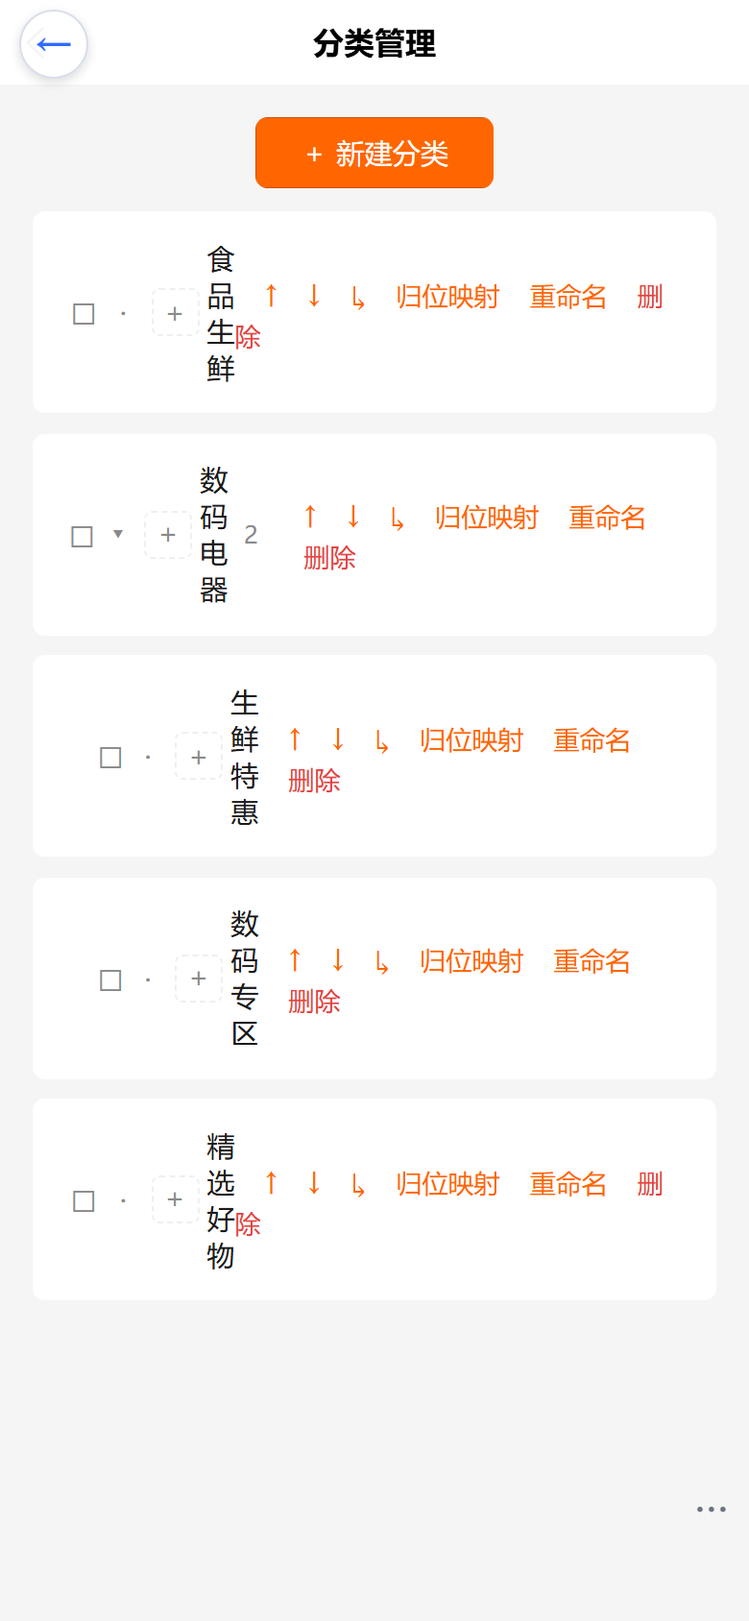
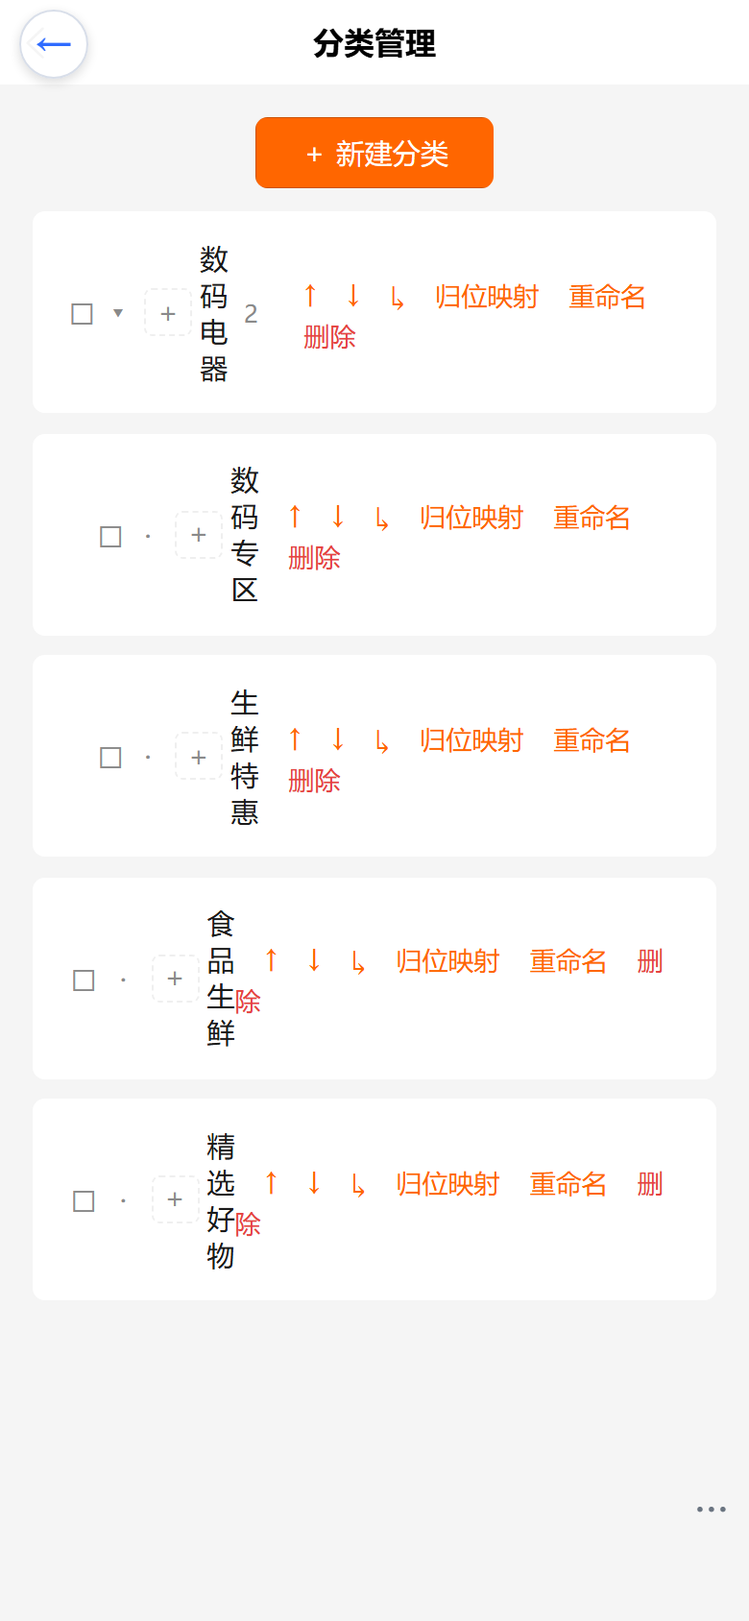
test(docs): 根级分类换序验收证据（修复后）
修复 1b74c5d 后 swapSibling 从扁平列表按 parentId 取兄弟，根级分类 ↑↓ 不再静默无效。脚本 B6 改为主验根级换序（B6a，主图 categories-reorder.png 重新取证：换序前 [食品生鲜,数码电器,...] → 点↓后 [数码电器,...,食品生鲜,...]，刷新回读一致，点↑复原），子级换序复核另存 categories-reorder-child.png（B6b）。全量 PASS（失败 0 / SKIP 0），本地数据已还原原序；修复手册第 17 章同步更新图注/步骤（共 10 张），verify:manual PASS。

未改任何业务代码。

diff --git a/web-admin/docs/webadmin-bugfix-manual/webadmin-bugfix-manual.html b/web-admin/docs/webadmin-bugfix-manual/webadmin-bugfix-manual.html
@@ -1532,12 +1532,12 @@ flowchart TD
 
   <section id="gap4-batch1">
     <h2>17 售后处理筛选分页 + 分类管理树形 / 排序 / 图标 / 批量（gap4 批 1 · 2026-09-25）</h2>
-    <p>本章为 <strong>gap4「管理后台体验补齐」批 1</strong> 的验收章节，覆盖 <strong>① 售后处理列表的类型筛选与上滑分页</strong>、<strong>② 商品分类管理的树形缩进 / 折叠 / 换序 / 行内图标 / 批量操作（含批量删除限制）</strong>。验收口径沿用硬规范「功能交付 = 实现 + API/e2e 回归 + 手机视口截图 + 操作手册」。本轮 <mark class="key">9 张截图全部为手机视口 390×844（dpr=2 → 780×1688）、本地 dev server、每个页面 0 pageerror / 0 console.error</mark>。</p>
+    <p>本章为 <strong>gap4「管理后台体验补齐」批 1</strong> 的验收章节，覆盖 <strong>① 售后处理列表的类型筛选与上滑分页</strong>、<strong>② 商品分类管理的树形缩进 / 折叠 / 换序 / 行内图标 / 批量操作（含批量删除限制）</strong>。验收口径沿用硬规范「功能交付 = 实现 + API/e2e 回归 + 手机视口截图 + 操作手册」。本轮 <mark class="key">10 张截图全部为手机视口 390×844（dpr=2 → 780×1688）、本地 dev server、每个页面 0 pageerror / 0 console.error</mark>。其中「根级分类换序」一图于 <code class="mono">e2c1b9f</code> 修复后<strong>重新取证</strong>。</p>
     <div class="table-wrap">
     <table>
       <tr><th>项</th><th>内容</th></tr>
       <tr><td>验证脚本</td><td><code class="mono">python _e2e/_verify_gap4_batch1.py</code>（Playwright Python sync，视口 390×844 / dpr=2 / is_mobile / has_touch；退出码 <mark class="key">0 = 通过</mark>）</td></tr>
-      <tr><td>本轮结果</td><td><mark class="key">PASS（失败 0 / SKIP 0）</mark>，退出码 0；落图 9 张到 <code class="mono">docs/verify/gap4-batch1-*.png</code></td></tr>
+      <tr><td>本轮结果</td><td><mark class="key">PASS（失败 0 / SKIP 0）</mark>，退出码 0；落图 10 张到 <code class="mono">docs/verify/gap4-batch1-*.png</code>（含 <code class="mono">e2c1b9f</code> 修复后的根级换序新增图 <code class="mono">categories-reorder.png</code> / <code class="mono">categories-reorder-child.png</code>）</td></tr>
       <tr><td>覆盖页面</td><td><code class="mono">pages/after-sale/list/index</code>（售后处理）· <code class="mono">pages/product/categories/index</code>（分类管理）</td></tr>
       <tr><td>文档门禁</td><td><code class="mono">npm run verify:manual</code>（cwd <code class="mono">web-admin</code>）→ <mark class="key">PASS（失败 0）</mark></td></tr>
     </table>
@@ -1577,10 +1577,10 @@ flowchart TD
       <p class="muted" style="font-size:13px;margin-bottom:0;">判定依据：子分类来自已加载的分类表（可靠）；商品数来自 <code class="mono">collections.items.productVariantCount</code>（admin-api 实测可用）。批量删除结束后勾选态自动清空。</p>
     </div>
     <div class="callout warn">
-      <p><strong>已知边界（不阻塞，如实登记）</strong>：<code class="mono">↑</code>/<code class="mono">↓</code> 换序发生在<strong>同一父级内</strong>，需要该父级分类本身在当前列表里。若某分类的 <code class="mono">parentId</code> 指向<strong>未被 <code class="mono">collections</code> 查询返回的根集合</strong>（本地默认渠道数据的 <code class="mono">parentId = "1"</code> 即属此类），则同级兄弟数组取不到、点 <code class="mono">↑</code>/<code class="mono">↓</code> 会静默无操作。因此本轮<strong>换序验收以「父分类已在列表内」的子分类为对象</strong>（点 <code class="mono">↓</code> 后与相邻子分类交换并刷新回读一致）。</p>
+      <p><strong>根级换序缺陷已修复并回归（<code class="mono">e2c1b9f</code>）</strong>：初版 <code class="mono">swapSibling()</code> 用 <code class="mono">nodeIndex.get(parentId).children</code> 取兄弟，而根分类的 <code class="mono">parentId</code> 指向<strong>未被 <code class="mono">collections</code> 查询返回的根集合</strong>（本地默认渠道数据为 <code class="mono">parentId = "1"</code>），取不到兄弟数组，导致<strong>根级 <code class="mono">↑</code>/<code class="mono">↓</code> 静默无操作</strong>。现已改为<strong>从扁平列表 <code class="mono">cats.value</code> 按 <code class="mono">parentId</code> 过滤 + 按 <code class="mono">position/name</code> 排序</strong>取兄弟，并把节点真实 <code class="mono">parentId</code> 传给 <code class="mono">moveCollection</code>。<mark class="key">根级与子级换序均验收通过</mark>（见 17.3 B6a / B6b 的原始顺序值）。</p>
     </div>
 
-    <h3>17.3 验收结论与截图证据（手机 390×844 dpr=2 → 780×1688，共 9 张）</h3>
+    <h3>17.3 验收结论与截图证据（手机 390×844 dpr=2 → 780×1688，共 10 张）</h3>
     <div class="table-wrap">
     <table>
       <tr><th>#</th><th>验收点</th><th>结论</th><th>证据（脚本断言 / 截图）</th></tr>
@@ -1592,15 +1592,17 @@ flowchart TD
       <tr><td>B3</td><td>勾选 2 项后底部批量条出现（数量 2 + 批量改图标 / 批量移动 / 批量删除）</td><td><mark class="key">通过</mark></td><td><code class="mono">bulk='2 批量改图标 批量移动 批量删除'</code> → <code class="mono">gap4-batch1-categories-picked-bulk.png</code></td></tr>
       <tr><td>B4</td><td>批删限制①：含子分类被拦截且未真删</td><td><mark class="key">通过</mark></td><td>toast「「数码电器」含子分类，不能删除」、<code class="mono">rows=5</code> 不变 → <code class="mono">gap4-batch1-categories-bulkdelete-blocked-children.png</code></td></tr>
       <tr><td>B5</td><td>批删限制②：含商品被拦截且未真删</td><td><mark class="key">通过</mark></td><td>toast「「精选好物」含商品，不能删除」、<code class="mono">rows=5</code> 不变（<code class="mono">productVariantCount=5</code>）→ <code class="mono">gap4-batch1-categories-bulkdelete-blocked-products.png</code></td></tr>
-      <tr><td>B6</td><td>换序后<strong>回读一致</strong>：点 <code class="mono">↓</code> 交换子分类 → 刷新后顺序 == 换序后顺序；再点 <code class="mono">↑</code> 复原</td><td><mark class="key">通过</mark></td><td><code class="mono">after-click == after-reload == ['食品生鲜','数码电器','生鲜特惠','数码专区','精选好物']</code>，↑ 复原回原顺序 → <code class="mono">gap4-batch1-categories-reorder.png</code></td></tr>
+      <tr><td>B6a</td><td><strong>根级</strong>换序<strong>回读一致</strong>（修复 <code class="mono">e2c1b9f</code> 的回归验证）：点根分类 <code class="mono">↓</code> 与相邻根兄弟交换 → 刷新后顺序 == 换序后顺序；再点 <code class="mono">↑</code> 复原</td><td><mark class="key">通过</mark></td><td>根级行（<code class="mono">padding=0</code>）<code class="mono">['食品生鲜','数码电器','精选好物']</code>；<br>换序前 <code class="mono">['食品生鲜','数码电器','数码专区','生鲜特惠','精选好物']</code> → 点「食品生鲜」<code class="mono">↓</code> 后 <code class="mono">['数码电器','数码专区','生鲜特惠','食品生鲜','精选好物']</code> → 刷新回读<strong>完全一致</strong>；<br>点「食品生鲜」<code class="mono">↑</code> 复原 <code class="mono">['食品生鲜','数码电器','数码专区','生鲜特惠','精选好物']</code>（== 原序）→ <code class="mono">gap4-batch1-categories-reorder.png</code></td></tr>
+      <tr><td>B6b</td><td><strong>子级</strong>换序回读一致（父分类已在列表内，复核修复无回归）</td><td><mark class="key">通过</mark></td><td><code class="mono">['食品生鲜','数码电器','数码专区','生鲜特惠','精选好物']</code> → 点「数码专区」<code class="mono">↓</code> 后 <code class="mono">['食品生鲜','数码电器','生鲜特惠','数码专区','精选好物']</code> → 刷新回读一致，<code class="mono">↑</code> 复原 → <code class="mono">gap4-batch1-categories-reorder-child.png</code></td></tr>
       <tr><td>—</td><td>全程无 JS 异常（pageerror / console.error）</td><td><mark class="key">通过</mark></td><td>两页断言均为 <code class="mono">[]</code>（0 条）</td></tr>
     </table>
     </div>
     <p><strong>A. 售后处理列表（3 张）</strong></p>
     <figure style="margin:0 0 10px;"><img src="../verify/gap4-batch1-aftersale-default.png" style="width:31%;border:1px solid var(--rule);border-radius:10px;" /><img src="../verify/gap4-batch1-aftersale-type-filter.png" style="width:31%;border:1px solid var(--rule);border-radius:10px;margin-left:8px;" /><img src="../verify/gap4-batch1-aftersale-loadmore.png" style="width:31%;border:1px solid var(--rule);border-radius:10px;margin-left:8px;" /><figcaption style="font-size:12px;color:var(--muted);margin-top:6px;">左：<b>默认态</b>——4 个状态页签 + 关键词 / 类型胶囊 / 申请时间 / 退款区间 / 排序共 5 组筛选控件，列表按最新在前；中：<b>类型筛选生效</b>——「售后类型：仅退款」胶囊高亮为主题色，列表行全部为仅退款；右：<b>上滑加载累计</b>——滚到底部可见「没有更多了」与页脚「已显示 25 / 25」</figcaption></figure>
-    <p><strong>B. 分类管理（6 张）</strong></p>
+    <p><strong>B. 分类管理（7 张）</strong></p>
     <figure style="margin:0 0 10px;"><img src="../verify/gap4-batch1-categories-tree.png" style="width:31%;border:1px solid var(--rule);border-radius:10px;" /><img src="../verify/gap4-batch1-categories-collapsed.png" style="width:31%;border:1px solid var(--rule);border-radius:10px;margin-left:8px;" /><img src="../verify/gap4-batch1-categories-picked-bulk.png" style="width:31%;border:1px solid var(--rule);border-radius:10px;margin-left:8px;" /><figcaption style="font-size:12px;color:var(--muted);margin-top:6px;">左：<b>分类树</b>——父分类「数码电器」带 <b>▾</b> 折叠箭头与子分类数「2」，其下「数码专区 / 生鲜特惠」两行<b>左缩进</b>；每行可见行内图标区（虚线框 ＋）与 ↑↓↳ 操作区；中：<b>折叠生效</b>——点 ▾ 后子行收起、箭头变 <b>▸</b>，仅剩 3 行；右：<b>勾选后的底部批量条</b>——已选 2 项 + 批量改图标 / 批量移动 / 批量删除</figcaption></figure>
-    <figure style="margin:0 0 10px;"><img src="../verify/gap4-batch1-categories-bulkdelete-blocked-children.png" style="width:31%;border:1px solid var(--rule);border-radius:10px;" /><img src="../verify/gap4-batch1-categories-bulkdelete-blocked-products.png" style="width:31%;border:1px solid var(--rule);border-radius:10px;margin-left:8px;" /><img src="../verify/gap4-batch1-categories-reorder.png" style="width:31%;border:1px solid var(--rule);border-radius:10px;margin-left:8px;" /><figcaption style="font-size:12px;color:var(--muted);margin-top:6px;">左：<b>批删限制①</b>——勾选有子分类的「数码电器」后提示「含子分类，不能删除」，5 行仍在；中：<b>批删限制②</b>——勾选有商品的「精选好物」后提示「含商品，不能删除」；右：<b>换序回读一致</b>——点 ↓ 后「生鲜特惠」排到「数码专区」之前，刷新页面顺序保持</figcaption></figure>
+    <figure style="margin:0 0 10px;"><img src="../verify/gap4-batch1-categories-bulkdelete-blocked-children.png" style="width:46%;border:1px solid var(--rule);border-radius:10px;" /><img src="../verify/gap4-batch1-categories-bulkdelete-blocked-products.png" style="width:46%;border:1px solid var(--rule);border-radius:10px;margin-left:8px;" /><figcaption style="font-size:12px;color:var(--muted);margin-top:6px;">左：<b>批删限制①</b>——勾选有子分类的「数码电器」后提示「含子分类，不能删除」，5 行仍在；右：<b>批删限制②</b>——勾选有商品的「精选好物」后提示「含商品，不能删除」</figcaption></figure>
+    <figure style="margin:0 0 10px;"><img src="../verify/gap4-batch1-categories-reorder.png" style="width:46%;border:1px solid var(--rule);border-radius:10px;" /><img src="../verify/gap4-batch1-categories-reorder-child.png" style="width:46%;border:1px solid var(--rule);border-radius:10px;margin-left:8px;" /><figcaption style="font-size:12px;color:var(--muted);margin-top:6px;">左：<b>根级换序（修复后的主证据）</b>——点根分类「食品生鲜」的 ↓ 后，根级顺序由 <code class="mono">[食品生鲜, 数码电器, 精选好物]</code> 变为 <code class="mono">[数码电器, 食品生鲜, 精选好物]</code>（图中「数码电器」已排到「食品生鲜」之前，其子分类随之缩进在其下），刷新页面顺序保持；右：<b>子级换序</b>——点「数码专区」↓ 后「生鲜特惠」排到其前，复核修复未回归</figcaption></figure>
 
     <h3>17.4 验收口径与残留说明</h3>
     <div class="callout warn">
@@ -1609,11 +1611,12 @@ flowchart TD
       <p>③ <strong>本地 dev 数据不足以直接验收，本轮使用了 API fixture</strong>：本地库售后单原为 0 条、分类全部挂在未返回的根集合下（树是平的），无法支撑「类型筛选 / 上滑分页 / 树形缩进 / 折叠 / 换序」五组断言。脚本在显式开关 <code class="mono">WA_SHOT_ALLOW_WRITE=1</code> 下通过<strong>公开 GraphQL API</strong>造样本：<code class="mono">setOrderCustomFields</code> 刷新订单售后时效窗口 → shop-api <code class="mono">createAfterSalesRequest</code> ×23（不带 <code class="mono">orderLineId</code>，故不触发「同一订单行重复售后」校验）→ <code class="mono">moveCollection</code> 把两分类挂到同一父分类下。目标域名含 <code class="mono">e.joho.cn</code>（生产）时<strong>硬拦</strong>，全程零文件改动、未触碰 <code class="mono">d:\zhao\vendure</code> 任何文件。</p>
       <p>④ <strong>残留（如实登记）</strong>：分类层级与「数码专区 / 生鲜特惠」的位置已在脚本收尾时还原到 <code class="mono">parentId '1'</code>；但售后单<strong>服务端无删除 mutation</strong>，23 条样本只能 <code class="mono">cancelAfterSalesRequest</code> 置为 <strong>Closed</strong>（行仍在本地 dev 库，脚本二次运行会因 <code class="mono">totalItems ≥ 25</code> 直接复用、不再新增）。生产库未做任何写入。</p>
       <p>⑤ <strong>使用手册（<code class="mono">src/static/manual/index.html</code>）本轮未同步</strong>：该文件是<strong>数据驱动单文件</strong>（<code class="mono">var CHAPTERS = [...]</code>、章节编号由 JS 自动生成、图片目录为 <code class="mono">shots/</code>），与修复手册的「静态 section + 手写编号 + <code class="mono">assets/</code>」体系<strong>不一致</strong>；且它面向 C 端用户、本轮两个页面均为管理后台功能，故按约定<strong>只改修复手册</strong>。</p>
-      <p style="margin-bottom:0;">⑥ <strong>行内图标区未写真实缩略图</strong>：本地 dev server 返回的 asset preview URL 使用 Windows 反斜杠路径（<code class="mono">/assets/preview\…</code>），写入图标会让浏览器 404、破坏「0 console.error」口径；本轮因此只验「图标区每行可见（<code class="mono">.ico</code> 容器 + <code class="mono">＋</code> 占位）」，<strong>不写图标</strong>，以保证 9 张取证图全部零异常。</p>
+      <p style="margin-bottom:0;">⑥ <strong>行内图标区未写真实缩略图</strong>：本地 dev server 返回的 asset preview URL 使用 Windows 反斜杠路径（<code class="mono">/assets/preview\…</code>），写入图标会让浏览器 404、破坏「0 console.error」口径；本轮因此只验「图标区每行可见（<code class="mono">.ico</code> 容器 + <code class="mono">＋</code> 占位）」，<strong>不写图标</strong>，以保证 10 张取证图全部零异常。</p>
+      <p>⑦ <strong>相对上一次验收的唯一变更（缺陷修复回归）</strong>：上一次汇报登记的「根分类 <code class="mono">↑</code>/<code class="mono">↓</code> 静默无效」已在 <code class="mono">e2c1b9f</code> 修复（<code class="mono">swapSibling()</code> 改从扁平列表取兄弟）。本轮<strong>只做验证与证据更新、未改任何业务代码</strong>：脚本把换序验收从「子分类」改为主验<strong>根级</strong>（B6a，主图 <code class="mono">categories-reorder.png</code>），并把子级复核另存 <code class="mono">categories-reorder-child.png</code>（B6b）。两次运行均 <mark class="key">PASS（失败 0 / SKIP 0）</mark>，本地数据在收尾时已还原为原顺序。</p>
     </div>
   </section>
 
-  <footer>vShop · web-admin 后台修复操作手册 · 生成于 2026-09-04（2026-09-13 追加第 12 章，2026-09-21 追加第 13 章，2026-09-22 追加第 14 章，2026-09-23 追加第 15 章，2026-09-23 追加第 16 章，2026-09-25 追加 16.8 交付总结报告，2026-09-25 追加 16.9 追补（偏差 #40 / #45），2026-09-25 追加 16.9.6 OFF 档端到端回归，2026-09-25 追加 16.9.7 线上使用手册 op-38 同步，2026-09-25 追加 16.9.8 盘库运营增强（分页 / 草稿 / 统计 / 导出 / 打印）与线上手册 op-39，2026-09-25 追加 16.9.8 渲染级截图验证门禁，2026-09-25 追加 16.9.8 打印版式像素级一致性要求（基线录制 + fixture 契约 + 负向验证），2026-09-25 追加 16.9.7 O 小节 op-38 渲染门禁并入统一脚本（精确图数 / 结构计数 / 响应码 / 字节一致），2026-09-25 追加 16.9.8 第 11 小节 配货台四类单据（拣货单 / 发货单 / 包裹标签 / 批次总览）打印版式像素级一致性门禁（并入 verify:print / 四 case 基线 / 负向验证），2026-09-25 追加 16.9.9 门禁改造验收总结报告（任务 B 渲染门禁 + 任务 C 打印像素门禁），2026-09-25 追加第 17 章 gap4 批 1 验收（售后处理类型筛选 / 上滑分页 + 分类树 / 折叠 / 换序 / 行内图标 / 批量操作与批删限制，9 张手机视口取证图）） · 适用于 Nuxt/Vue3 uni-app H5 前端</footer>
+  <footer>vShop · web-admin 后台修复操作手册 · 生成于 2026-09-04（2026-09-13 追加第 12 章，2026-09-21 追加第 13 章，2026-09-22 追加第 14 章，2026-09-23 追加第 15 章，2026-09-23 追加第 16 章，2026-09-25 追加 16.8 交付总结报告，2026-09-25 追加 16.9 追补（偏差 #40 / #45），2026-09-25 追加 16.9.6 OFF 档端到端回归，2026-09-25 追加 16.9.7 线上使用手册 op-38 同步，2026-09-25 追加 16.9.8 盘库运营增强（分页 / 草稿 / 统计 / 导出 / 打印）与线上手册 op-39，2026-09-25 追加 16.9.8 渲染级截图验证门禁，2026-09-25 追加 16.9.8 打印版式像素级一致性要求（基线录制 + fixture 契约 + 负向验证），2026-09-25 追加 16.9.7 O 小节 op-38 渲染门禁并入统一脚本（精确图数 / 结构计数 / 响应码 / 字节一致），2026-09-25 追加 16.9.8 第 11 小节 配货台四类单据（拣货单 / 发货单 / 包裹标签 / 批次总览）打印版式像素级一致性门禁（并入 verify:print / 四 case 基线 / 负向验证），2026-09-25 追加 16.9.9 门禁改造验收总结报告（任务 B 渲染门禁 + 任务 C 打印像素门禁），2026-09-25 追加第 17 章 gap4 批 1 验收（售后处理类型筛选 / 上滑分页 + 分类树 / 折叠 / 换序 / 行内图标 / 批量操作与批删限制，9 张手机视口取证图），2026-09-25 追加第 17 章根级分类换序修复（e2c1b9f）后的重新取证与回归（换序验收改为主验根级，新增 categories-reorder-child 图，共 10 张，verify:manual PASS）） · 适用于 Nuxt/Vue3 uni-app H5 前端</footer>
 </div>
 
 <script src="./_shared/js/mermaid.min.js"></script>

diff --git a/web-admin/_e2e/_verify_gap4_batch1.py b/web-admin/_e2e/_verify_gap4_batch1.py
@@ -443,32 +443,54 @@ def main():
               'toast=%r rows=%d（「精选好物」productVariantCount=5）' % (blocked2, pg.locator('.card').count()))
         shot(pg, 'categories-bulkdelete-blocked-products', '批删限制 ②：有商品的分类被拦截（toast 提示，未删除）')
 
-        # --- 换序 + 回读一致 ---
-        # 只对**子分类**换序：根分类的 parentId 指向未被 collections 查询返回的根集合（本地数据 parentId='1'），
-        # swapSibling 找不到兄弟数组会直接 return（应用现有局限，非本次断言目标）。
-        pg.reload(wait_until='networkidle', timeout=60000)
-        time.sleep(5)
-        order0 = row_names(pg)
-        if has_parent and '数码专区' in order0:
-            i_a = order0.index('数码专区')
-            pg.locator('.card').nth(i_a).locator('.ops uni-text', has_text='↓').first.click()
+        # --- 换序 + 回读一致（B6a 根级为主图；B6b 子级为辅） ---
+        # 修复 e2c1b9f 后 swapSibling 改为「从扁平列表按 parentId 过滤 + position/name 排序」取兄弟，
+        # 因此根分类（parentId 指向未被 collections 返回的根集合 '1'）也能换序——B6a 即该缺陷的回归验证。
+        def reload_rows(settle=5):
+            pg.reload(wait_until='networkidle', timeout=60000)
+            time.sleep(settle)
+            return row_names(pg)
+
+        # ---- B6a：根级换序（必须成立，主图） ----
+        order0 = reload_rows()
+        pads0 = [row_padding_left(pg, i) for i in range(pg.locator('.card').count())]
+        root_idx = [i for i, p in enumerate(pads0) if p == 0]
+        detail_head = '根级行=%r（padding=%r）' % ([order0[i] for i in root_idx], pads0)
+        if len(root_idx) >= 2:
+            root_a = order0[root_idx[0]]
+            pg.locator('.card').nth(root_idx[0]).locator('.ops uni-text', has_text='↓').first.click()
             time.sleep(3)
             order_move = row_names(pg)
-            pg.reload(wait_until='networkidle', timeout=60000)
-            time.sleep(5)
-            order_read = row_names(pg)
-            check('B6 ↓ 换序生效且回读一致（刷新后顺序 == 换序后顺序）',
+            order_read = reload_rows()
+            check('B6a 根级 ↓ 换序生效且回读一致：根「%s」与相邻根兄弟交换' % root_a,
                   order_move == order_read and order_read != order0,
-                  'before=%r after-click=%r after-reload=%r' % (order0, order_move, order_read))
-            shot(pg, 'categories-reorder', '↓ 换序后刷新回读：同父级子分类顺序与换序结果一致（位置持久化）')
-            # 还原：对已下移的那一行点 ↑
-            pg.locator('.card').nth(order_read.index('数码专区')).locator('.ops uni-text', has_text='↑').first.click()
+                  '%s 换序前=%r 点↓后=%r 刷新回读=%r' % (detail_head, order0, order_move, order_read))
+            shot(pg, 'categories-reorder', '根级换序（修复后）：点根分类 ↓ → 与相邻根分类交换，刷新后顺序一致')
+            pg.locator('.card').nth(order_read.index(root_a)).locator('.ops uni-text', has_text='↑').first.click()
             time.sleep(3)
-            pg.reload(wait_until='networkidle', timeout=60000)
-            time.sleep(4)
-            check('B6 复原：↑ 换回原顺序', row_names(pg) == order0, 'rows=%r' % row_names(pg))
+            order_back = reload_rows(4)
+            check('B6a 复原：点 ↑ 换回原顺序', order_back == order0,
+                  '复原后=%r（原=%r）' % (order_back, order0))
         else:
-            skip('B6 ↓ 换序生效且回读一致', '无同父级子分类可换序（fixture 未生效）')
+            skip('B6a 根级换序', '顶层根级行 < 2，取不到相邻根兄弟')
+
+        # ---- B6b：子级换序（父分类已在列表内，复核修复未回归） ----
+        c_order0 = reload_rows()
+        if has_parent and '数码专区' in c_order0:
+            i_a = c_order0.index('数码专区')
+            pg.locator('.card').nth(i_a).locator('.ops uni-text', has_text='↓').first.click()
+            time.sleep(3)
+            c_move = row_names(pg)
+            c_read = reload_rows()
+            check('B6b 子级 ↓ 换序生效且回读一致（父分类在列表内）',
+                  c_move == c_read and c_read != c_order0,
+                  '换序前=%r 点↓后=%r 刷新回读=%r' % (c_order0, c_move, c_read))
+            shot(pg, 'categories-reorder-child', '子级换序：同父级子分类 ↓ 交换，刷新后顺序一致（复核无回归）')
+            pg.locator('.card').nth(c_read.index('数码专区')).locator('.ops uni-text', has_text='↑').first.click()
+            time.sleep(3)
+            check('B6b 复原：点 ↑ 换回原顺序', reload_rows(4) == c_order0, 'rows=%r' % row_names(pg))
+        else:
+            skip('B6b 子级换序', '无同父级子分类可换序（fixture 未生效）')
         check('B 分类页 无 JS 异常', not errs_of(bag), str(errs_of(bag)[:2]))
 
         sizes = []
